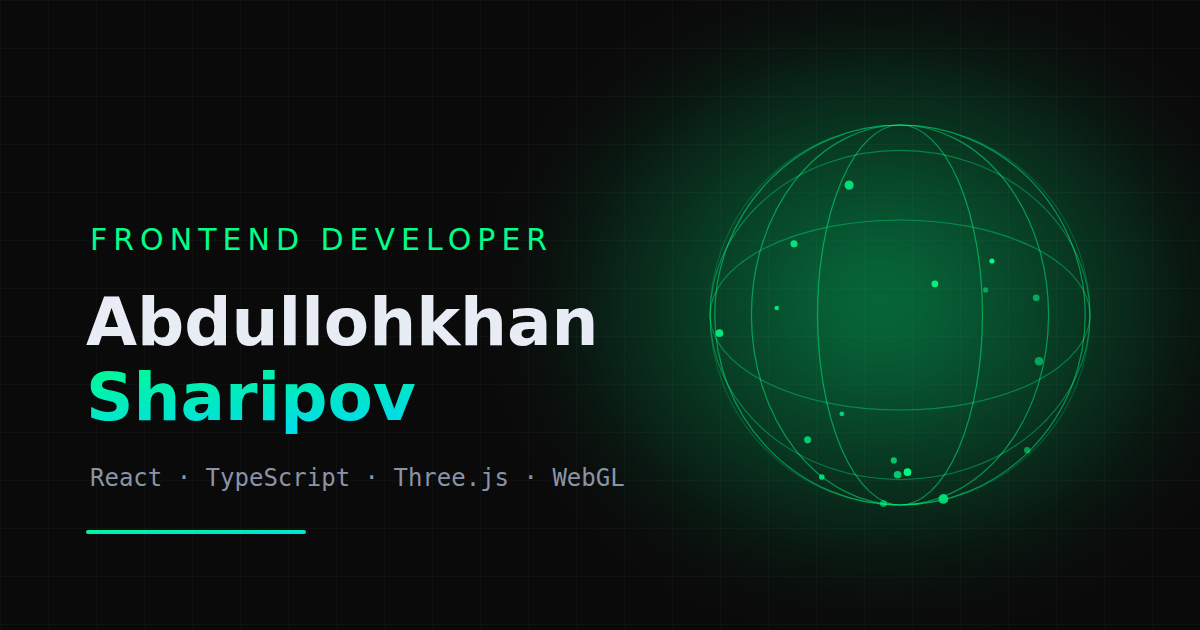
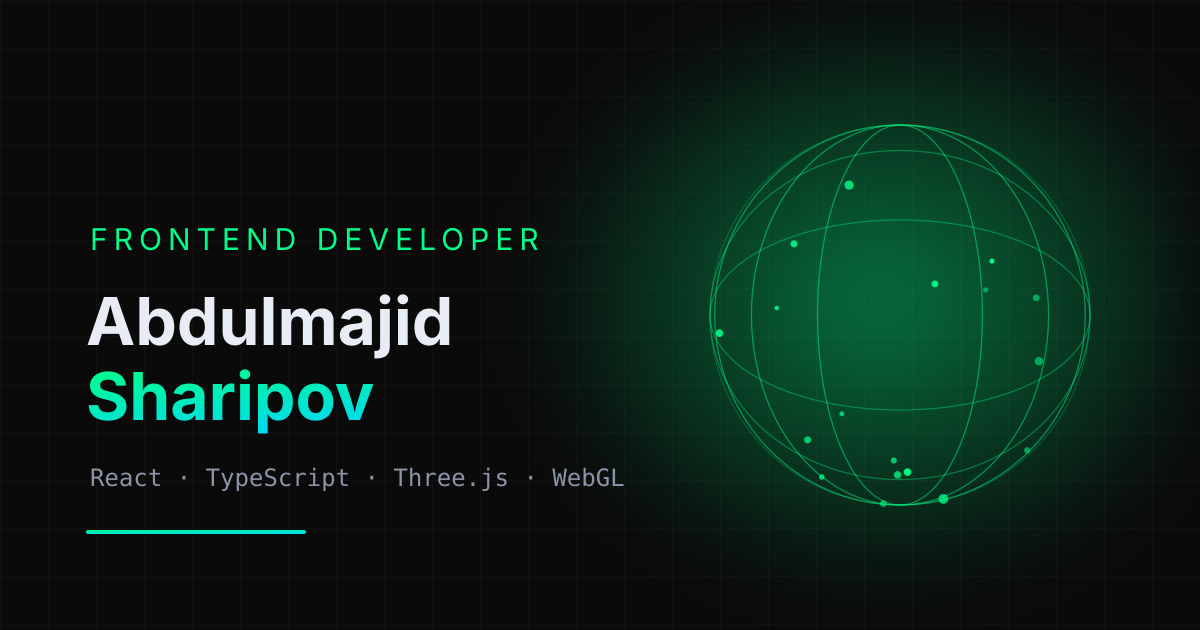
meta: ko'rinadigan ismni 'Abdulmajid Sharipov' ga birlashtirish (#1)
SEO meta sarlavha (en/uz), yuklanish ekrani va og-image (Telegram/ijtimoiy
ulashish rasmi) 'Abdullohkhan' o'rniga 'Abdulmajid' — hero bilan bir xil.
Telegram/@ handle va email brend sifatida o'zgarmadi.

Claude-Session: https://claude.ai/code/session_011wpR2r3XVbtg1stGrECRs9

diff --git a/src/i18n/en.ts b/src/i18n/en.ts
@@ -2,7 +2,7 @@ import type { Dictionary } from './uz'
 
 export const en: Dictionary = {
   meta: {
-    title: 'Abdullohkhan Sharipov | Frontend Developer & 3D Enthusiast',
+    title: 'Abdulmajid Sharipov | Frontend Developer &amp; 3D Enthusiast',
     description:
       'Frontend developer building modern web applications and 3D experiences with React, TypeScript, Three.js and WebGL.',
   },

diff --git a/src/components/LoadingScreen.tsx b/src/components/LoadingScreen.tsx
@@ -130,7 +130,7 @@ export default function LoadingScreen({ onDone }: Props) {
           </p>
           <p className="mt-3 font-display text-2xl font-bold sm:text-3xl">
             <span className="neon-text">{'{ '}</span>
-            Abdullohkhan
+            Abdulmajid
             <span className="neon-text">{' }'}</span>
           </p>
         </div>

diff --git a/src/i18n/uz.ts b/src/i18n/uz.ts
@@ -1,6 +1,6 @@
 export const uz = {
   meta: {
-    title: 'Abdullohkhan Sharipov | Frontend Developer & 3D Enthusiast',
+    title: 'Abdulmajid Sharipov | Frontend Developer &amp; 3D Enthusiast',
     description:
       'Zamonaviy veb-ilovalar va 3D tajribalar yaratuvchi frontend dasturchi. React, TypeScript, Three.js va WebGL.',
   },
